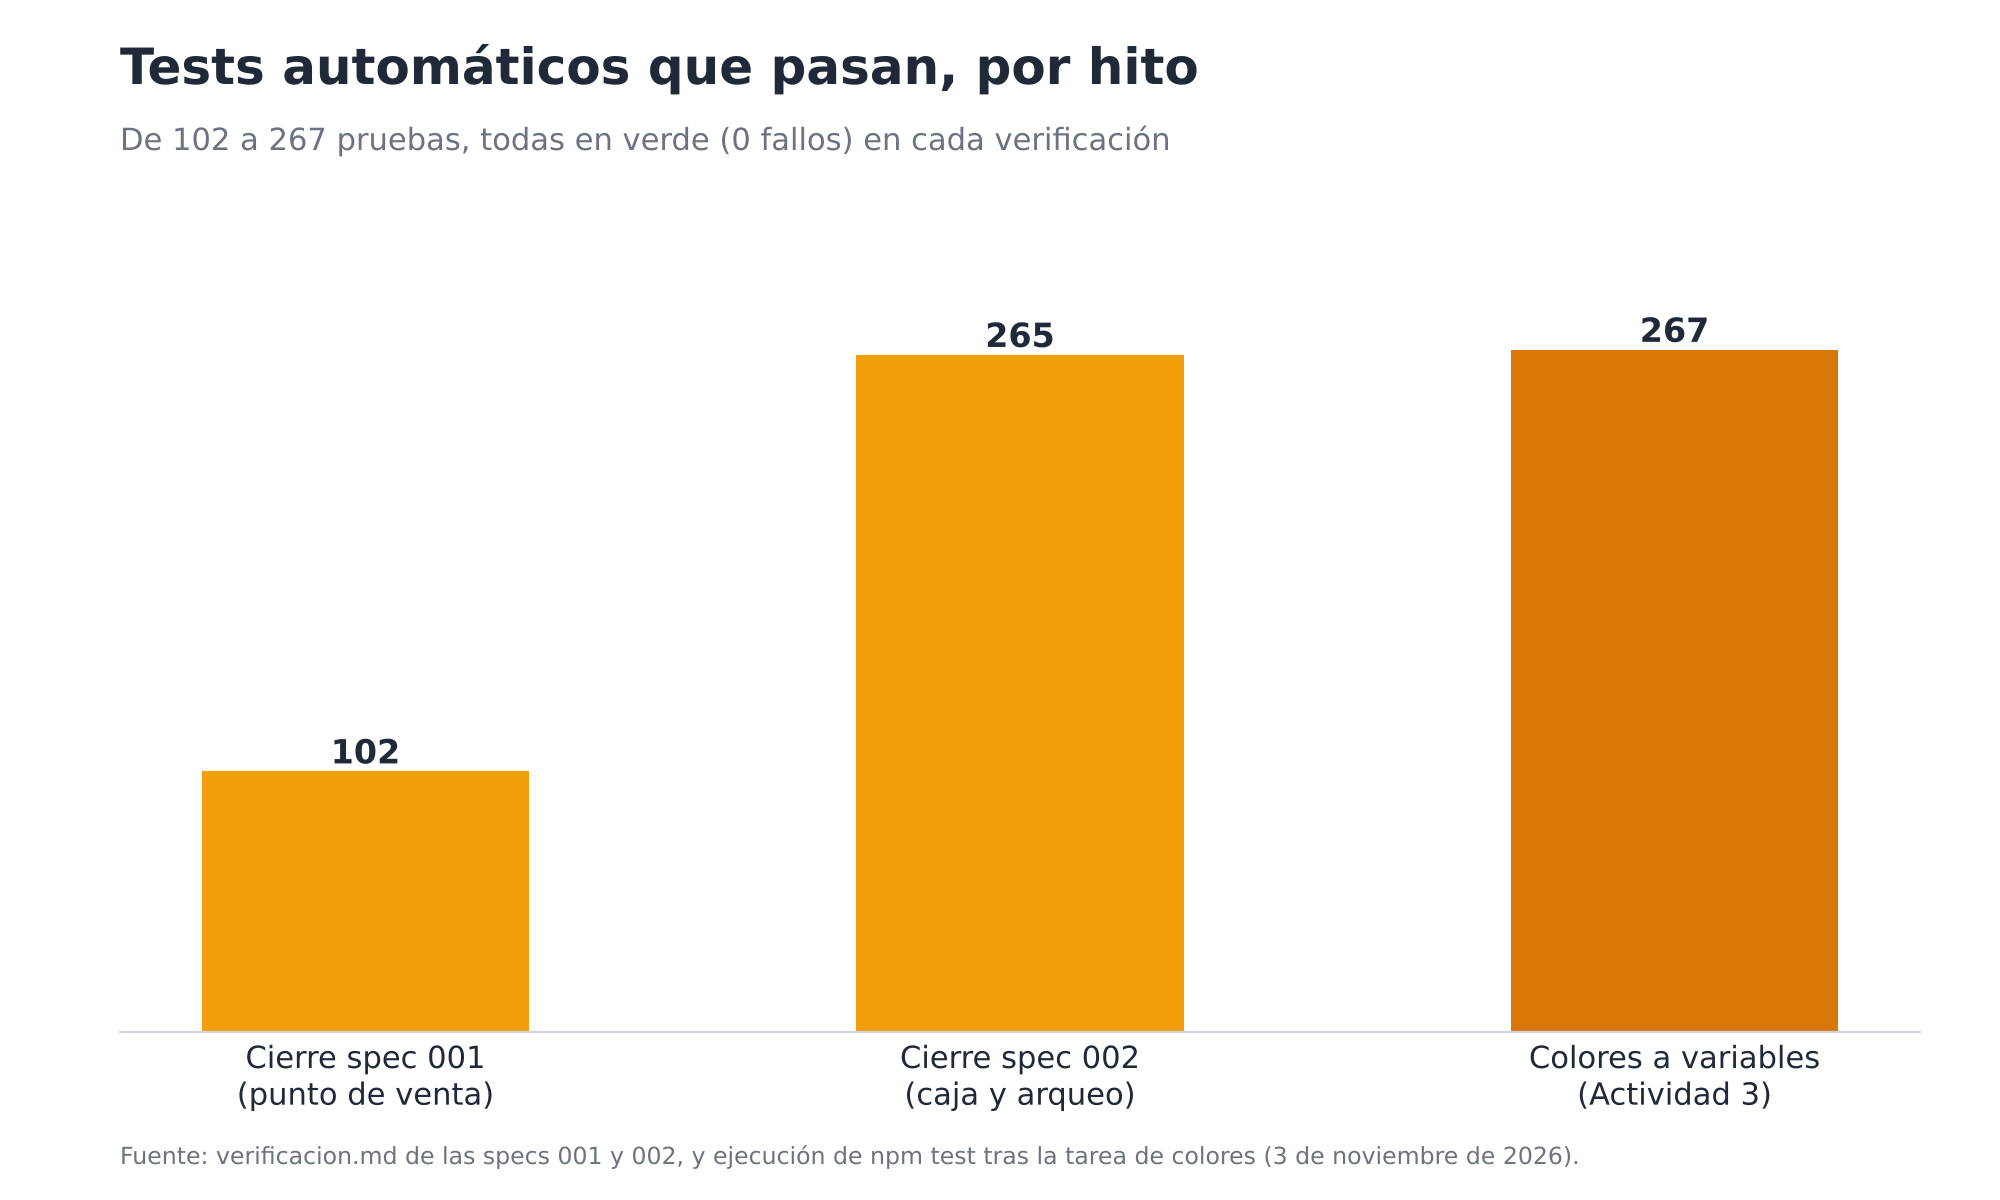
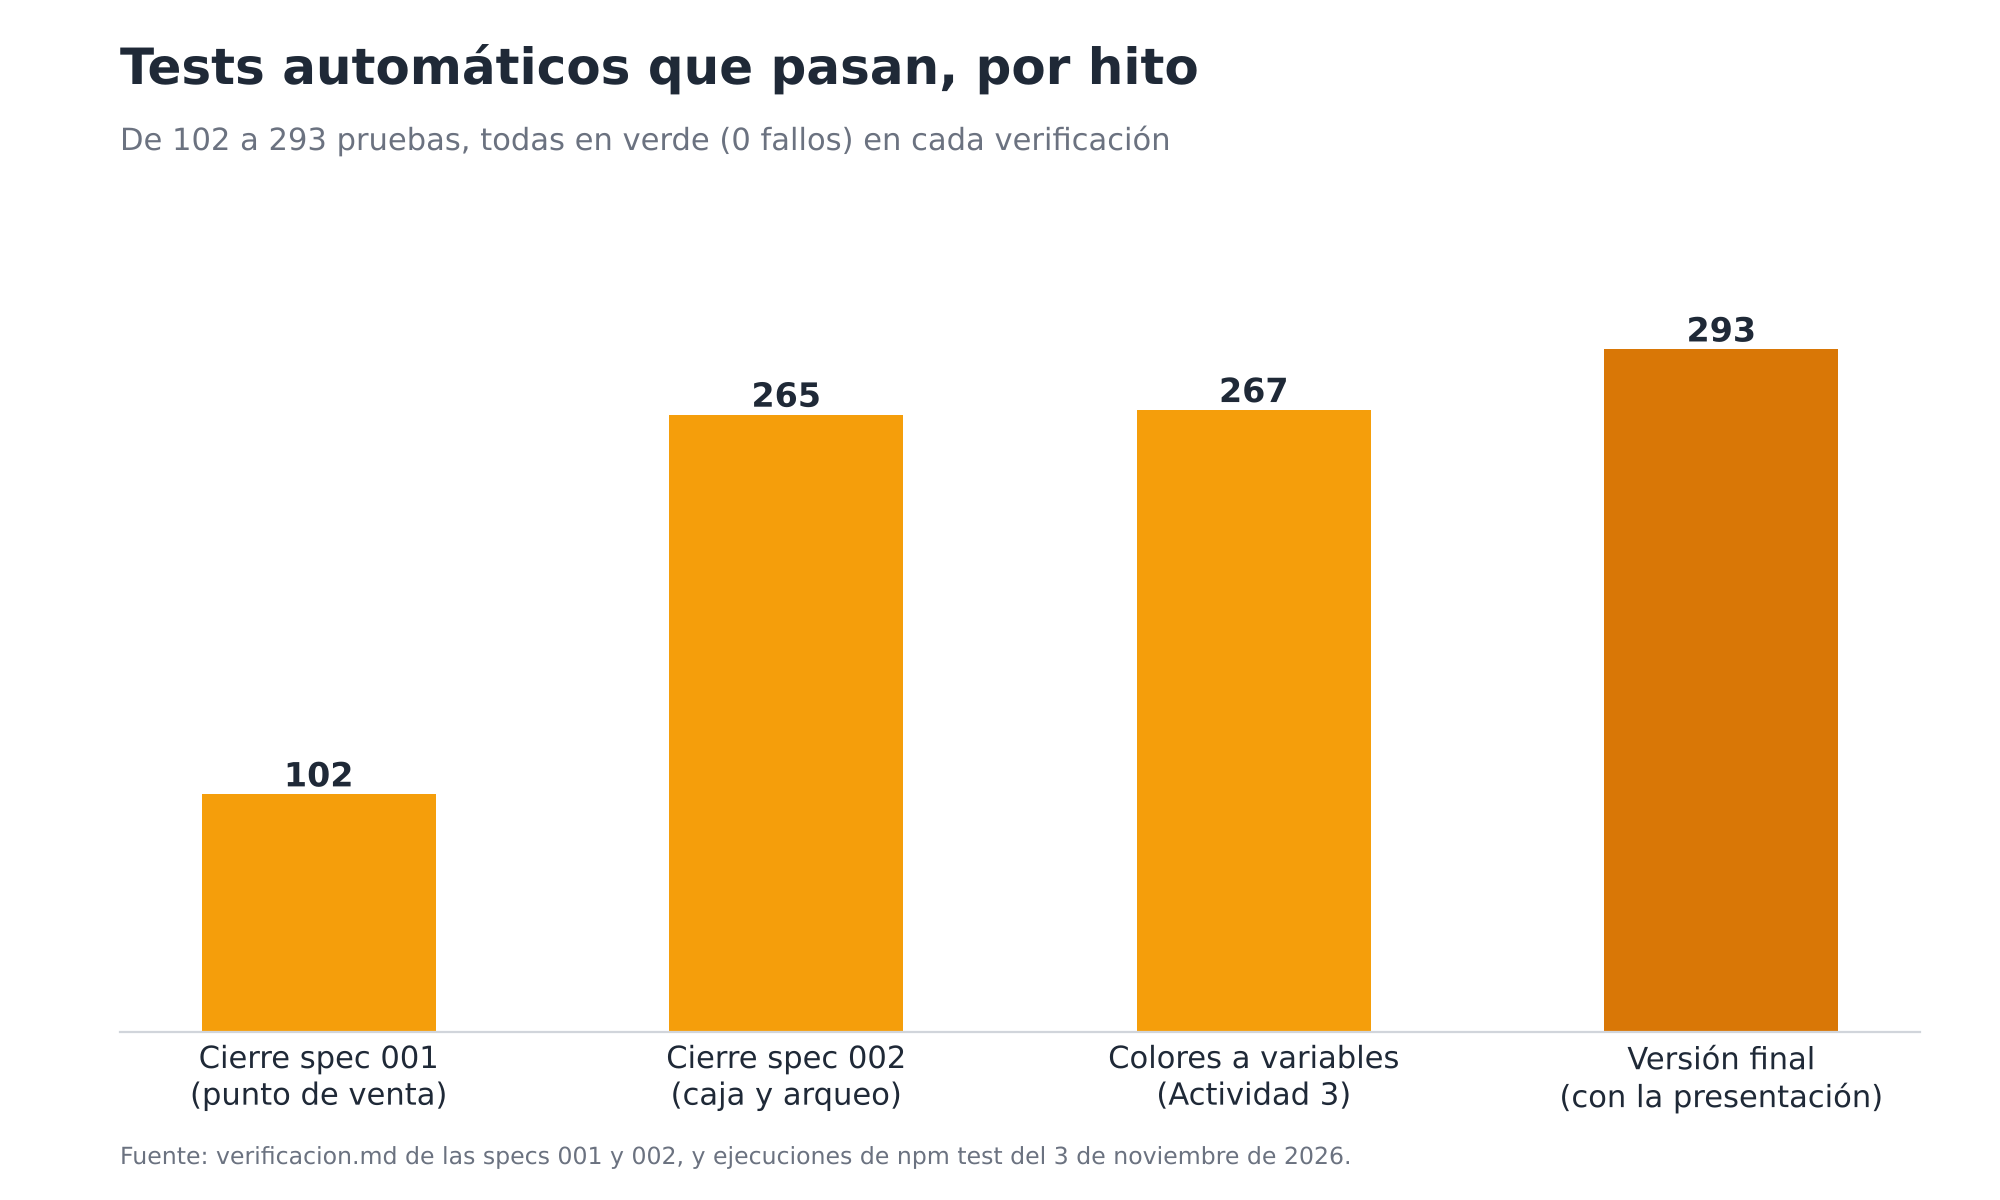
actualizacion de documentacion

diff --git a/multimedia/graficos/infografia-pointer.html b/multimedia/graficos/infografia-pointer.html
@@ -53,7 +53,7 @@ h1{font-family:BC;font-size:84px;text-transform:uppercase;letter-spacing:1px;mar
 <div class="grid">
 <div class="card"><div class="big">23</div><p>requisitos de prioridad Alta, escritos en EARS, <b style="color:var(--ok)">100 % cumplidos</b></p></div>
 <div class="card"><div class="big">43</div><p>tareas hechas una por una, con su commit, en 2 funcionalidades</p></div>
-<div class="card"><div class="big">267</div><p>tests automáticos en verde, 0 fallos</p></div>
+<div class="card"><div class="big">293</div><p>tests automáticos en verde, 0 fallos</p></div>
 <div class="card"><div class="big">90<small> → </small>0</div><p>colores escritos a mano en el CSS: ahora todo sale de las variables de la marca</p></div>
 </div></div>
 

diff --git a/documentacion/MATRIZ-HERRAMIENTAS.md b/documentacion/MATRIZ-HERRAMIENTAS.md
@@ -2,7 +2,7 @@
 
 > Elección fundamentada a partir de lo investigado en el TP N° 2 (cómo las empresas construyen, entrenan y venden sus modelos). Las condiciones de uso se revisaron en octubre de 2026 y la tabla se actualizó en noviembre de 2026 con las herramientas que se usaron de verdad y **pueden cambiar**: antes de generar cada pieza se vuelven a leer los términos vigentes.
 >
-> Las filas marcadas con *(a confirmar)* son la elección propuesta; si al producir la pieza se usa otra herramienta, se corrige esta tabla y la ficha en `multimedia/FICHAS-IA.md`.
+> Todas las filas muestran las herramientas que se usaron de verdad. Cuando la elección cambió respecto de la propuesta inicial, la fila lo indica, y cada pieza tiene su ficha en `multimedia/FICHAS-IA.md`.
 
 | Uso | Herramienta y modelo | Empresa y plan | Motivo de la elección | Riesgos y mitigación |
 |---|---|---|---|---|
@@ -15,7 +15,7 @@
 | **Video (spot)** | Remotion 4.0 (animación con React), con código escrito por Claude | Remotion · gratuito para personas y equipos chicos | Permite una animación con la marca exacta (colores, tipografías y logo) y cambiar cualquier escena sin volver a generar; el autor aprobó cada escena con un storyboard | Escenas que prometan algo que el sistema no hace → guion revisado por el autor; personajes dibujados, no personas reales. **Cambio respecto de la propuesta:** se descartó Veo porque el autor prefirió una animación a clips realistas |
 | **Voz en off** | ElevenLabs, voz de catálogo «Carlos Pro - Argentinian Documentary & Radio», modelo eleven_v4 | ElevenLabs · plan gratuito | Voz natural con acento argentino, acorde al voseo de la marca | El plan gratuito **no permite uso comercial y exige atribución** («elevenlabs.io»): el video es académico y no monetizado, y la atribución va en el video y en la descripción. Nunca se clona la voz de una persona real |
 | **Música y efectos** | Código Python (`multimedia/video/spot/gen/sonidos.py`) escrito por Claude | Sin costo | Sonido propio, sin muestras ni licencias de terceros | Mezcla que tape la voz → el autor pidió bajar la música al 35 % y los efectos a la mitad. **Cambio respecto de la propuesta:** no se usó Suno ni la biblioteca de YouTube |
-| **Edición de video** | Remotion (el mismo proyecto del spot); para el video demo, grabación de pantalla con la voz del autor *(completar la herramienta)* | — | El montaje, los subtítulos y el volumen quedan en el código del spot y se pueden revisar | **Cambio respecto de la propuesta:** no se usó CapCut |
+| **Edición de video** | Remotion (el mismo proyecto del spot); para el video demo, grabación de pantalla con la voz del autor grabado y editado por el autor | — | El montaje, los subtítulos y el volumen quedan en el código del spot y se pueden revisar | **Cambio respecto de la propuesta:** no se usó CapCut |
 | **Gráficos e infografía** | Python con matplotlib, con código escrito por Claude | Anthropic · plan pago; matplotlib es libre | Los gráficos salen de **datos reales del repositorio** (`spec.md`, `tasks.md`, `verificacion.md`, `npm test`), así se pueden verificar | Datos inventados = falta grave → cada gráfico lleva la fuente al pie y se guarda en `multimedia/graficos/` |
 
 ## Criterios usados para elegir

diff --git a/multimedia/FICHAS-IA.md b/multimedia/FICHAS-IA.md
@@ -2,18 +2,19 @@
 
 > Una ficha por cada imagen, video, gráfico, voz o música generada con IA, o hecha con código escrito por una IA. En el informe, cada figura lleva como epígrafe su leyenda de transparencia. En la página de presentación del sitio, por decisión del autor (ver P-06 en `documentacion/PROMPTS.md`), las leyendas van reunidas en una nota al pie que nombra cada pieza y su herramienta, como permite la consigna («en el epígrafe o en una página "Cómo hicimos este sitio"»).
 >
-> Las cantidades marcadas *(completar)* las tiene que confirmar el autor, porque salen de lo que generó en cada herramienta.
+> El video demo (recorrido por el sistema) no lleva ficha: no tiene piezas generadas con IA, porque es una grabación de pantalla con la voz del autor.
+>
 
 ## Registro de producción
 
 | Pieza | Generadas | Usadas | Descartadas |
 |---|---|---|---|
-| Logo (Canva) | *(completar: opciones vistas en las 3 rondas)* | 1 | *(completar)* |
+| Logo (Canva) | 3 rondas de opciones (no se registró la cantidad exacta) | 1 | El resto de las opciones |
 | Voz en off (ElevenLabs) | 18 tomas como mínimo (2 por frase en 9 frases), más las regeneradas de las escenas 4 y 8 | 9 | 9 como mínimo |
 | Spot (Remotion) | 3 versiones renderizadas (isométrica, mixta 2D/3D, ajuste de volumen) | 1 | 2 |
 | Música y efectos (código) | 1 música y 5 efectos | 6 | 0 |
 | Gráficos (código) | 4, y una nueva versión del gráfico 4 | 4 | 1 (primera versión del gráfico 4) |
-| Infografía (código) | 2 versiones | 1 | 1 (la primera cortaba la última sección) |
+| Infografía (código) | 3 versiones | 1 | 2 (la primera cortaba la última sección; la segunda tenía la cantidad de tests anterior) |
 | Montaje de los mockups | 4 (2 con script y 2 rehechos por el autor) | 2 | 2 |
 | Imágenes fotorrealistas (Gemini) | 9 imágenes en 11 intentos (en 2 intentos Gemini no generó nada) | 8 | 1 (primera versión de la imagen 1) |
 
@@ -212,7 +213,7 @@
 | Nº y nombre de la pieza | Figura 17. Infografía «Pointer en números» (`multimedia/graficos/infografia-pointer.png`) |
 | Tipo | Infografía |
 | Herramienta y modelo | HTML y CSS renderizados con Playwright; el código lo escribió Claude a pedido del autor. 3 de noviembre de 2026 |
-| Prompt final | «Hacé la infografía con datos reales del proyecto.» Datos: requisitos y tareas de las specs 001 y 002, `npm test` (267 en verde), Lighthouse del 3 de noviembre de 2026, conteo de colores, `PROMPTS.md` (11 errores), `DECLARACION-IA.md` (7 riesgos) y esta lista de fichas. |
+| Prompt final | «Hacé la infografía con datos reales del proyecto.» Datos: requisitos y tareas de las specs 001 y 002, `npm test` (293 en verde), Lighthouse del 3 de noviembre de 2026, conteo de colores, `PROMPTS.md` (11 errores), `DECLARACION-IA.md` (7 riesgos) y esta lista de fichas. |
 | Iteraciones | 1) La primera versión tenía alto fijo y el pie tapaba la sección «Uso responsable de la IA» y las tecnologías. 2) Alto automático: aprobada. |
 | Edición humana | El autor revisó los datos y el diseño. Las fuentes de cada dato están escritas al pie de la infografía. |
 | Uso en el proyecto | Informe, página de presentación y defensa oral. Código en `multimedia/graficos/infografia-pointer.html` |

diff --git a/documentacion/08-TAREAS.md b/documentacion/08-TAREAS.md
@@ -6,9 +6,9 @@ La IA trabaja **una tarea por vez** y la marca con `[x]` al terminar.
 
 - [x] Definir el proyecto y su identidad de marca
 - [x] Escribir el kit de especificación (AGENTS.md y documentacion/)
-- [ ] Crear el repositorio público `iest-tfi_pointer` en GitHub (TFI, Actividad 1)
-- [ ] Conectar el repositorio a Netlify (carpeta de publicación: `sistema/`)
-- [ ] Subir el logo de Pointer y el favicon a `multimedia/marca/`
+- [x] Crear el repositorio público `iest-tfi_pointer` en GitHub (TFI, Actividad 1)
+- [x] Publicar en Netlify (la carpeta `sistema/` se sube a mano; el repositorio no está conectado)
+- [x] Subir el logo de Pointer y el favicon a `multimedia/marca/`
 
 ## Etapa 2 · Base de datos y seguridad
 
@@ -20,7 +20,7 @@ La IA trabaja **una tarea por vez** y la marca con `[x]` al terminar.
 - [x] Trigger de cajas
 - [x] Función `crear_venta` que calcule los totales en el servidor (atómica y con clave anti-duplicados)
 - [x] Cerrar la inserción directa de ventas: solo se vende con `crear_venta`
-- [ ] Desactivar el registro público de usuarios (signup) y verificarlo en el panel de Supabase
+- [x] Desactivar el registro público de usuarios (signup) y verificarlo en el panel de Supabase
 - [x] Crear usuarios desde una Edge Function (`crear-usuario`), solo para el dueño
 - [x] Ocultar `precio_costo` a los empleados (permiso por columna + función `get_costos()` solo para el dueño)
 
@@ -55,7 +55,7 @@ La IA trabaja **una tarea por vez** y la marca con `[x]` al terminar.
 - [ ] Quitar `unsafe-inline` de la CSP moviendo los scripts y `onclick` a archivos .js
 - [ ] Probar en celular y en la PC del mostrador con el lector
 - [ ] Revisar los permisos de cada rol una vez más
-- [ ] Publicar la versión final en Netlify
+- [x] Publicar la versión final en Netlify
 
 ## Etapa 7 · Trabajo Final Integrador
 
@@ -63,11 +63,11 @@ La IA trabaja **una tarea por vez** y la marca con `[x]` al terminar.
 - [ ] Actividad 2: tres funcionalidades con el ciclo SDD completo en `specs/`
 - [ ] Actividad 3: tests en verde, Lighthouse de 80 o más y publicación final
 - [x] Pasar a variables CSS los 54 colores escritos a mano que quedan en `sistema/css/` (deuda medida por `tests/constitucion.test.js`; bajar `DEUDA_COLORES_CSS` a 0)
-- [ ] Actividad 4: imágenes, video, gráficos y fichas en `multimedia/`
-- [ ] Producir las imágenes fotorrealistas, con su ficha y su fila en `MATRIZ-HERRAMIENTAS.md`
-- [ ] Completar las cantidades del logo en el registro de producción de `FICHAS-IA.md`
-- [ ] Grabar el video demo de 2 a 3 minutos con la voz del autor
-- [ ] Hacer la infografía
-- [ ] Actividad 5: declaración de uso de IA y análisis de riesgos
+- [x] Actividad 4: imágenes, video, gráficos y fichas en `multimedia/`
+- [x] Producir las imágenes fotorrealistas, con su ficha y su fila en `MATRIZ-HERRAMIENTAS.md`
+- [x] Completar las cantidades del logo en el registro de producción de `FICHAS-IA.md`
+- [x] Grabar el video demo con la voz del autor (4:30)
+- [x] Hacer la infografía
+- [x] Actividad 5: declaración de uso de IA y análisis de riesgos
 - [ ] Actividad 6: informe guionado y defensa
 

diff --git a/documentacion/DECLARACION-IA.md b/documentacion/DECLARACION-IA.md
@@ -14,14 +14,14 @@
 | Música y efectos | Código Python escrito por Claude | Música de fondo y efectos sin muestras de terceros | Pidió el ajuste de volumen y aprobó la mezcla |
 | Gráficos | Python (matplotlib), código escrito por Claude | 4 gráficos con datos reales del repositorio | Revisó los datos y la fuente de cada gráfico |
 | Imágenes | Google Gemini (Nano Banana), con prompts preparados por Claude; mockups montados por el autor en Photopea (un primer montaje con un script de Python se descartó) | 8 imágenes fotorrealistas del kiosco, 2 de ellas mockups con capturas reales de Pointer | Corrigió los prompts con referencias de Google Street View de Tinogasta, generó y revisó cada imagen con la Tabla 3, descartó la que no cumplía y tomó las capturas del sistema |
-| Video demo | *(completar: grabación de pantalla con la voz del autor)* | | |
-| Informe | *(completar en la Actividad 6)* | | |
+| Video demo | — (sin IA) | Recorrido de 4:30 por las secciones del sistema | Grabó la pantalla, narró con su voz y editó el video |
+| Informe | Claude (chat) | Borrador del informe a partir de los documentos del repositorio | Revisó, corrigió y aprobó el texto final |
 
 ## Riesgos del uso de IA y cómo se mitigaron
 
 | N° | Riesgo | Dónde apareció | Mitigación aplicada | Evidencia |
 |---|---|---|---|---|
-| R1 | **Código o documentos incorrectos aceptados sin revisar** | La IA se equivocó al menos 11 veces durante el proyecto (por ejemplo, una función SQL que PostgreSQL rechazaba y un texto con poco contraste) | Cada edición se aprueba a mano (nunca en modo automático), `npm test` corre antes de cada commit y cada error queda registrado | `documentacion/PROMPTS.md` (E-01 a E-11), 267 tests en verde |
+| R1 | **Código o documentos incorrectos aceptados sin revisar** | La IA se equivocó al menos 11 veces durante el proyecto (por ejemplo, una función SQL que PostgreSQL rechazaba y un texto con poco contraste) | Cada edición se aprueba a mano (nunca en modo automático), `npm test` corre antes de cada commit y cada error queda registrado | `documentacion/PROMPTS.md` (E-01 a E-11), 293 tests en verde |
 | R2 | **Privacidad y datos de terceros** | La IA consultó la base de un cliente creyendo que era la de Pointer (E-06) | Se separaron las bases en `memory.md` y en las specs; la IA no recibe contraseñas ni claves; los cambios que borran datos los ejecuta el autor | `documentacion/PROMPTS.md` (E-06), principio P8 |
 | R3 | **Datos inventados** en gráficos o en el informe | Riesgo propio de pedirle números a una IA | Los gráficos se arman con datos del repositorio y llevan la fuente al pie; cuando la fuente estaba mal escrita, se corrigió | `multimedia/graficos/`, Figuras 5 a 8 de `FICHAS-IA.md` |
 | R4 | **Voz sintética y licencias** | La voz de ElevenLabs suena como una persona real; el plan gratuito no permite uso comercial | Voz de catálogo (sin clonar a nadie), atribución «elevenlabs.io» en el video y en YouTube, uso académico y no monetizado | Cierre del spot, Figura 2 de `FICHAS-IA.md` |

diff --git a/documentacion/10-SEGURIDAD.md b/documentacion/10-SEGURIDAD.md
@@ -29,7 +29,7 @@ En Pointer el navegador **no es de confianza**: cualquier persona puede abrir la
 | Base de datos | Las vistas no se exponen a usuarios anónimos |
 | Base de datos | Funciones con `search_path` fijo y verificación de rol (`is_dueno`) |
 | Ventas | La función `crear_venta` calcula totales y stock en el servidor, con precios de la base |
-| Autenticación | Sin registro público: los usuarios los crea el dueño (a verificar en Supabase) |
+| Autenticación | Sin registro público: los usuarios los crea el dueño (registro desactivado en el panel de Supabase en noviembre de 2026). La protección de contraseñas filtradas requiere el plan pago de Supabase y queda como limitación |
 | Frontend | No usar `innerHTML` con datos del usuario; usar `textContent` |
 | Publicación | Cabeceras CSP en `netlify.toml`, ruta por ruta (hoy con `unsafe-inline`, protección parcial). Solo `/presentacion` agrega `frame-src https://www.youtube-nocookie.com`; las rutas desconocidas reciben `index.html`, que lleva la misma política en una meta |
 | Código | El repositorio no contiene claves ni archivos `.env` |
@@ -55,7 +55,7 @@ await supabase.rpc('crear_venta', { p_items: items, p_metodo_pago_id: metodoId }
 - [x] Vistas cerradas a usuarios anónimos
 - [x] Funciones con `search_path` fijo
 - [x] Función `crear_venta` con cálculo en el servidor
-- [ ] Registro público de usuarios desactivado
+- [x] Registro público de usuarios desactivado
 - [x] `precio_costo` oculto a empleados
 - [x] CSP configurada en Netlify (parcial, con `unsafe-inline`)
 - [ ] CSP sin `unsafe-inline`

diff --git a/README.md b/README.md
@@ -9,9 +9,11 @@
 
 | Qué | Dónde |
 |---|---|
-| Sistema publicado | https://pointer-demo.netlify.app/ |
-| Video promocional | *(se agrega en la Actividad 4)* |
-| Video demo | *(se agrega en la Actividad 4)* |
+| Sistema publicado | https://pointer-demo.netlify.app/login |
+| Página de presentación | https://pointer-demo.netlify.app/presentacion |
+| Video promocional | https://youtu.be/QeGQytGbK9k |
+| Video demo | https://youtu.be/rcM15H-btQ4 |
+| Todos los enlaces | [`ENLACES.md`](ENLACES.md) |
 
 ## Stack
 
@@ -35,7 +37,7 @@ El proyecto sigue **Desarrollo Guiado por Especificaciones (SDD)** con **Claude 
 iest-tfi_pointer/
 ├── README.md · AGENTS.md · CLAUDE.md · memory.md   ← lo que lee el agente (tienen que estar en la raíz)
 ├── documentacion/   ← TODOS los .md del proyecto: constitución, kit 01 a 10, marca, prompts, declaración, matriz
-├── specs/           ← una carpeta por funcionalidad (001, 002, 003)
+├── specs/           ← una carpeta por funcionalidad (001 y 002)
 ├── sistema/         ← Pointer: el sitio que se publica en Netlify
 ├── base-de-datos/   ← SQL de Supabase y la función crear-usuario
 ├── multimedia/      ← logo, imágenes, video, gráficos y FICHAS-IA.md

diff --git a/multimedia/video/GUION-TECNICO.md b/multimedia/video/GUION-TECNICO.md
@@ -51,6 +51,6 @@
 - Los clips de IA duran unos 8 s cada uno: se recortan en Remotion para ajustar el tiempo de cada escena.
 - Las escenas 6 y 7 usan capturas del sistema real publicado en `pointer-demo`, con datos de prueba (nada de datos reales de clientes).
 - La escena 7 depende de que la funcionalidad 002 (caja y arqueo) esté terminada; si no llega, se reemplaza por una captura del historial de ventas.
-- El eslogan «Cada venta, en su lugar.» es una propuesta: queda pendiente que el autor lo confirme en `documentacion/IDENTIDAD-MARCA.md`.
+- El eslogan «Cada venta, en su lugar.» era una propuesta en esta versión; el autor lo confirmó en noviembre de 2026 (`documentacion/IDENTIDAD-MARCA.md`).
 - Cada clip, la voz y la música llevan su ficha en `multimedia/FICHAS-IA.md`, con el prompt final y las iteraciones.
 - La descripción del video en YouTube declara el uso de IA y activa la etiqueta de contenido alterado o sintético.
